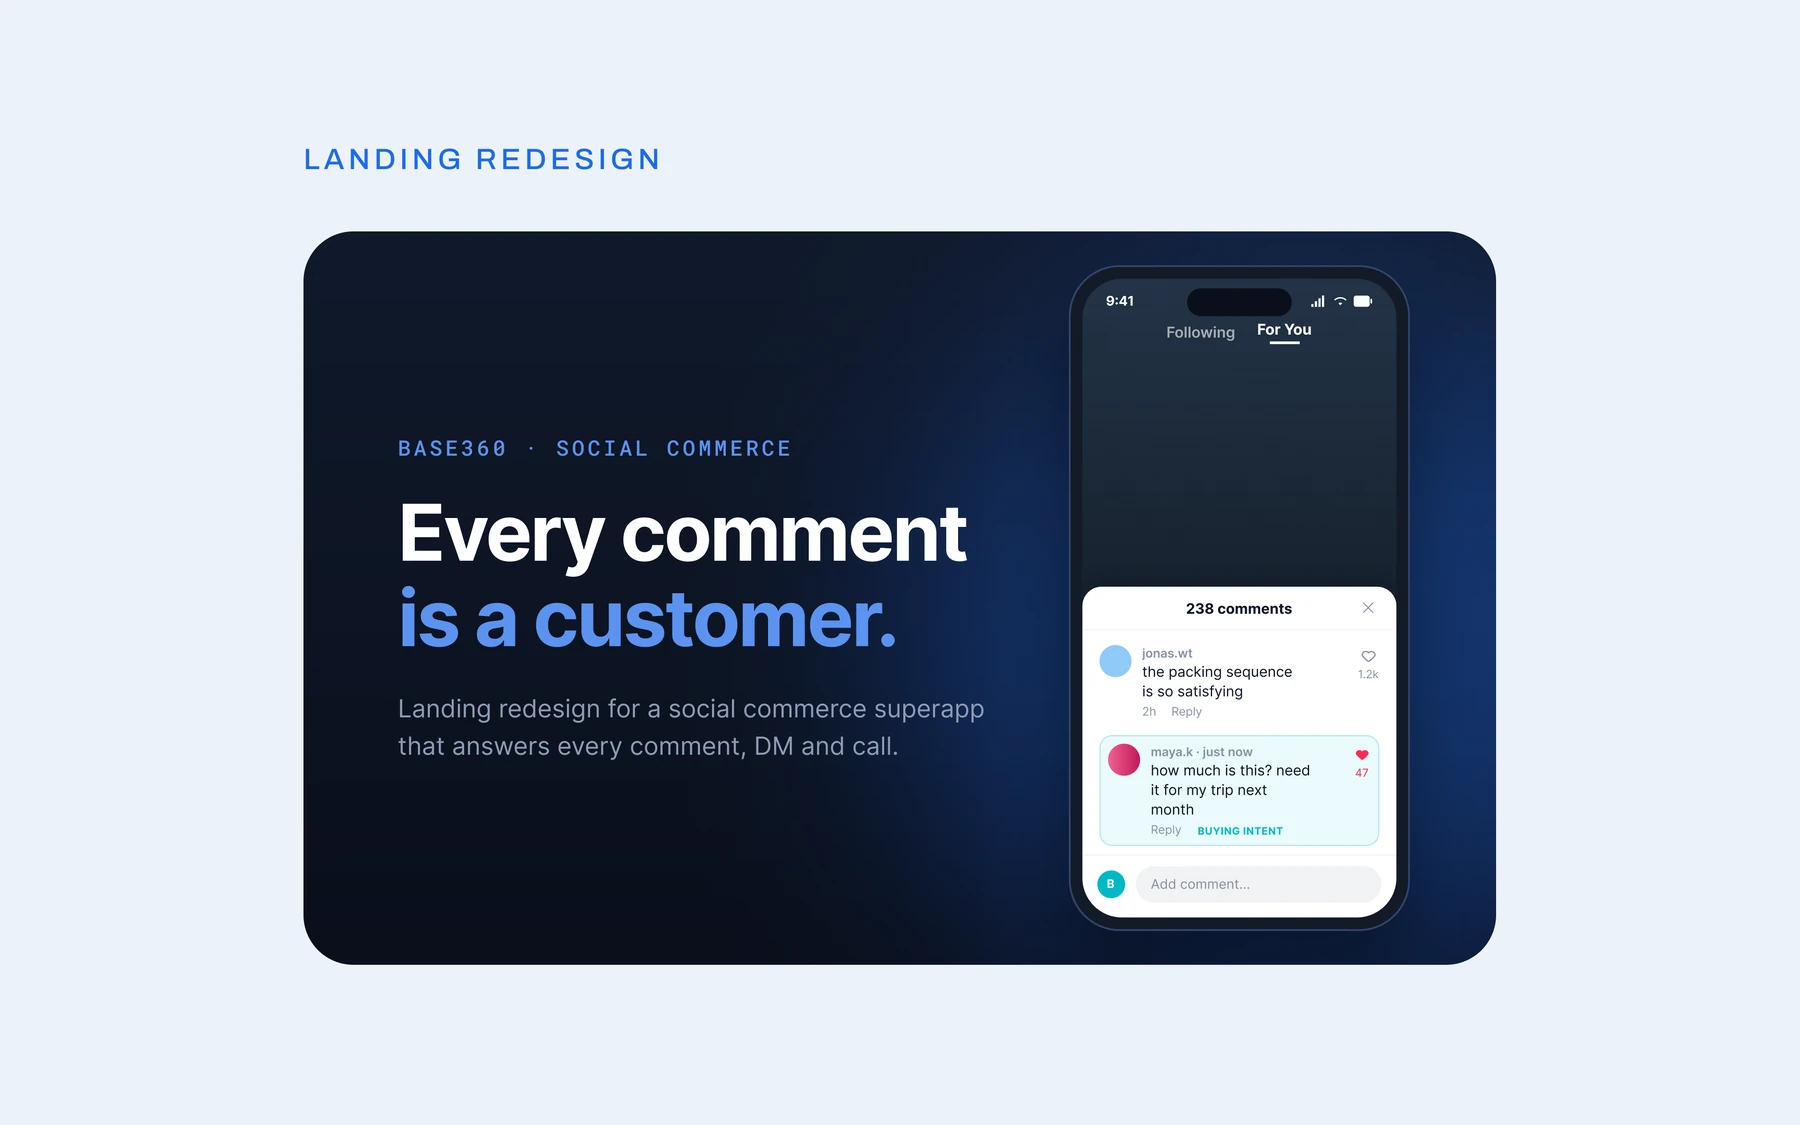
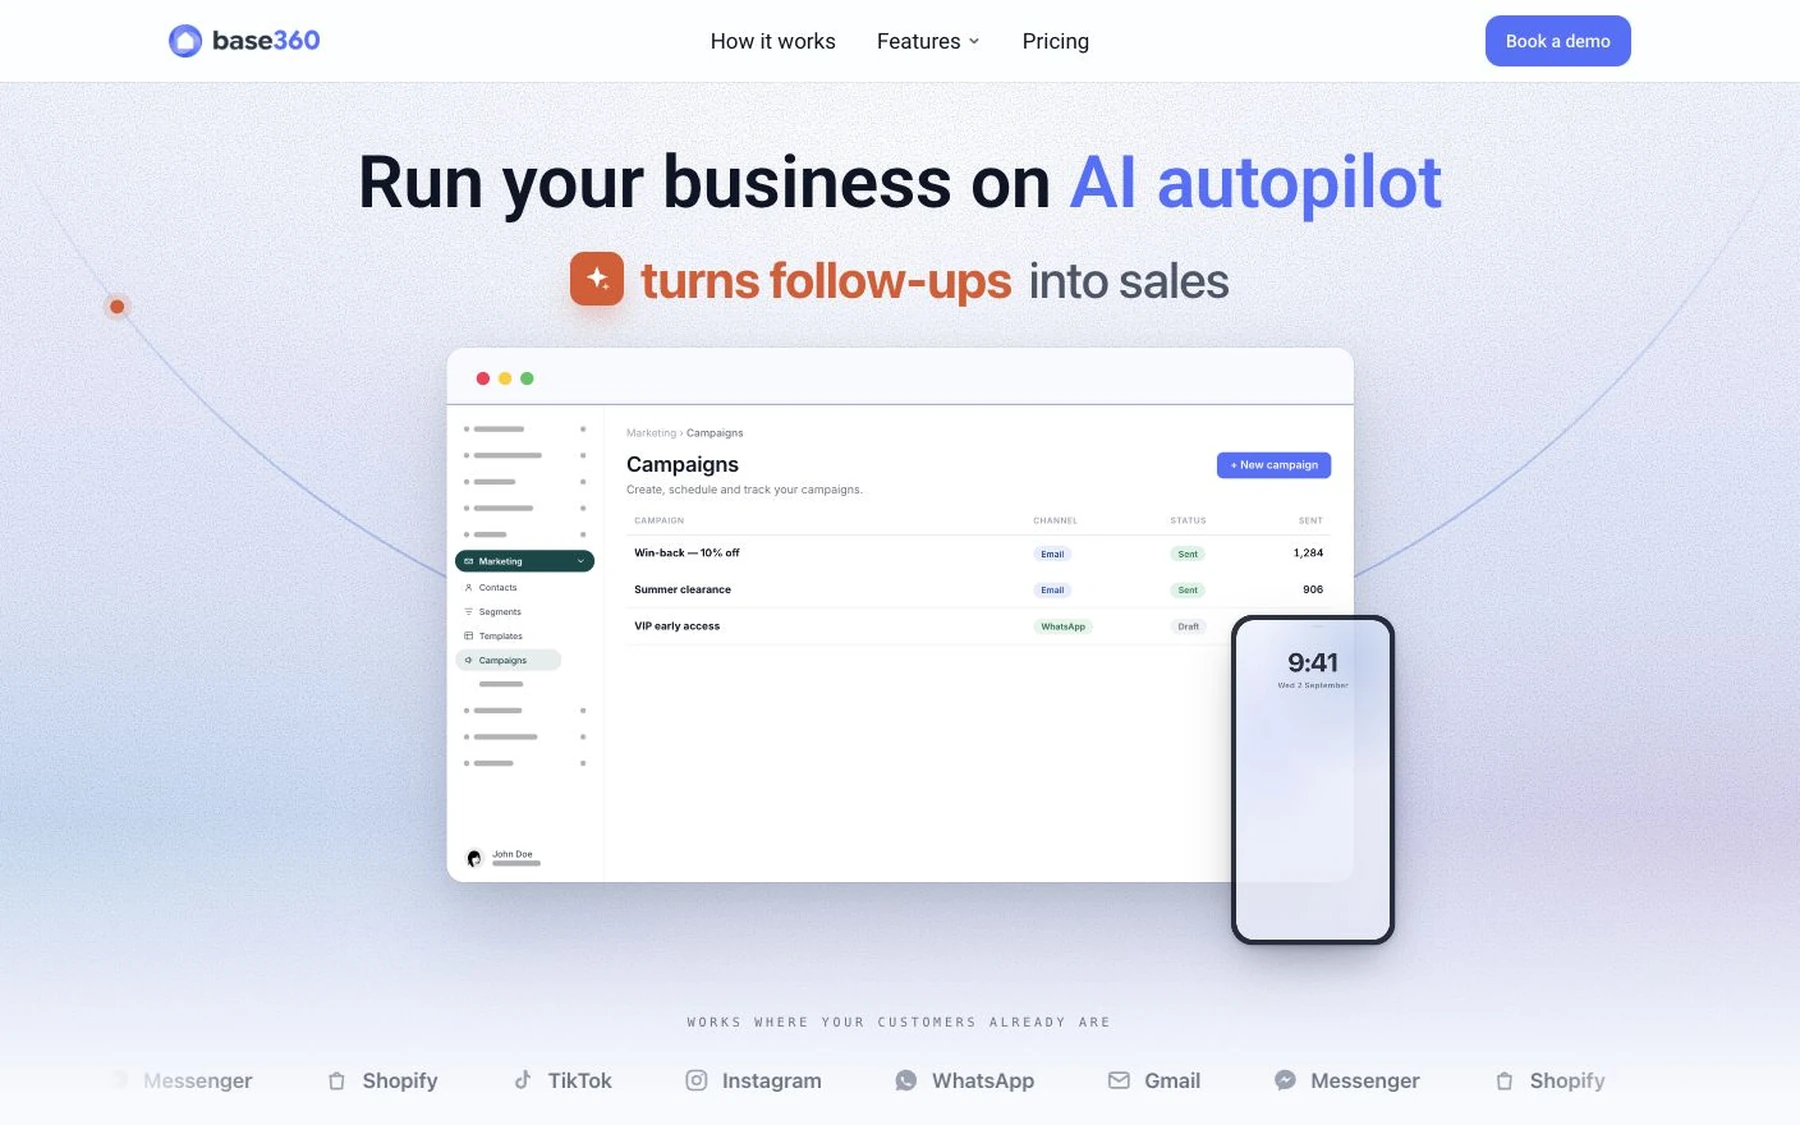
Use live Base360 hero as portfolio cover

diff --git a/src/portfolio-artifact.tmpl.html b/src/portfolio-artifact.tmpl.html
@@ -1423,8 +1423,8 @@ const PROJECTS = [
    year:'2025', disc:['web3','product','uiux']},
 
   {key:'base360', live:true, mark:'base360',           style:'font-size:23px;font-weight:400;letter-spacing:-.01em',
-   /* kapak: 262:744 frame'inin 4× export'u — src/make_cover.py kendi zeminini
-      (#ECF1F9) okuyup 16:10'a genişletiyor, görsel kırpılmıyor. */
+   /* Live hero captured from https://base360.ai/b2c/ (2026-10-20).
+      Rebuild: python3 src/make_cover.py base360 src/assets/reference/base360-hero.png --ratio native --width 1800 */
    cover:'{{ASSET:cover/base360.webp}}', coverBg:'#ECF1F9',
    logo:null,                                       client:'base360',          clientLogo:null,  /* ← Elif: base360 logosu */
    year:'2026', disc:['web','uiux']},

diff --git a/404.html b/404.html
@@ -1438,8 +1438,8 @@ const PROJECTS = [
    year:'2025', disc:['web3','product','uiux']},
 
   {key:'base360', live:true, mark:'base360',           style:'font-size:23px;font-weight:400;letter-spacing:-.01em',
-   /* kapak: 262:744 frame'inin 4× export'u — src/make_cover.py kendi zeminini
-      (#ECF1F9) okuyup 16:10'a genişletiyor, görsel kırpılmıyor. */
+   /* Live hero captured from https://base360.ai/b2c/ (2026-10-20).
+      Rebuild: python3 src/make_cover.py base360 src/assets/reference/base360-hero.png --ratio native --width 1800 */
    cover:'/assets/cover/base360.webp', coverBg:'#ECF1F9',
    logo:null,                                       client:'base360',          clientLogo:null,  /* ← Elif: base360 logosu */
    year:'2026', disc:['web','uiux']},

diff --git a/case/alti/index.html b/case/alti/index.html
@@ -1438,8 +1438,8 @@ const PROJECTS = [
    year:'2025', disc:['web3','product','uiux']},
 
   {key:'base360', live:true, mark:'base360',           style:'font-size:23px;font-weight:400;letter-spacing:-.01em',
-   /* kapak: 262:744 frame'inin 4× export'u — src/make_cover.py kendi zeminini
-      (#ECF1F9) okuyup 16:10'a genişletiyor, görsel kırpılmıyor. */
+   /* Live hero captured from https://base360.ai/b2c/ (2026-10-20).
+      Rebuild: python3 src/make_cover.py base360 src/assets/reference/base360-hero.png --ratio native --width 1800 */
    cover:'/assets/cover/base360.webp', coverBg:'#ECF1F9',
    logo:null,                                       client:'base360',          clientLogo:null,  /* ← Elif: base360 logosu */
    year:'2026', disc:['web','uiux']},

diff --git a/case/cursor/index.html b/case/cursor/index.html
@@ -1438,8 +1438,8 @@ const PROJECTS = [
    year:'2025', disc:['web3','product','uiux']},
 
   {key:'base360', live:true, mark:'base360',           style:'font-size:23px;font-weight:400;letter-spacing:-.01em',
-   /* kapak: 262:744 frame'inin 4× export'u — src/make_cover.py kendi zeminini
-      (#ECF1F9) okuyup 16:10'a genişletiyor, görsel kırpılmıyor. */
+   /* Live hero captured from https://base360.ai/b2c/ (2026-10-20).
+      Rebuild: python3 src/make_cover.py base360 src/assets/reference/base360-hero.png --ratio native --width 1800 */
    cover:'/assets/cover/base360.webp', coverBg:'#ECF1F9',
    logo:null,                                       client:'base360',          clientLogo:null,  /* ← Elif: base360 logosu */
    year:'2026', disc:['web','uiux']},

diff --git a/case/thy/index.html b/case/thy/index.html
@@ -1438,8 +1438,8 @@ const PROJECTS = [
    year:'2025', disc:['web3','product','uiux']},
 
   {key:'base360', live:true, mark:'base360',           style:'font-size:23px;font-weight:400;letter-spacing:-.01em',
-   /* kapak: 262:744 frame'inin 4× export'u — src/make_cover.py kendi zeminini
-      (#ECF1F9) okuyup 16:10'a genişletiyor, görsel kırpılmıyor. */
+   /* Live hero captured from https://base360.ai/b2c/ (2026-10-20).
+      Rebuild: python3 src/make_cover.py base360 src/assets/reference/base360-hero.png --ratio native --width 1800 */
    cover:'/assets/cover/base360.webp', coverBg:'#ECF1F9',
    logo:null,                                       client:'base360',          clientLogo:null,  /* ← Elif: base360 logosu */
    year:'2026', disc:['web','uiux']},

diff --git a/case/whallet/index.html b/case/whallet/index.html
@@ -1438,8 +1438,8 @@ const PROJECTS = [
    year:'2025', disc:['web3','product','uiux']},
 
   {key:'base360', live:true, mark:'base360',           style:'font-size:23px;font-weight:400;letter-spacing:-.01em',
-   /* kapak: 262:744 frame'inin 4× export'u — src/make_cover.py kendi zeminini
-      (#ECF1F9) okuyup 16:10'a genişletiyor, görsel kırpılmıyor. */
+   /* Live hero captured from https://base360.ai/b2c/ (2026-10-20).
+      Rebuild: python3 src/make_cover.py base360 src/assets/reference/base360-hero.png --ratio native --width 1800 */
    cover:'/assets/cover/base360.webp', coverBg:'#ECF1F9',
    logo:null,                                       client:'base360',          clientLogo:null,  /* ← Elif: base360 logosu */
    year:'2026', disc:['web','uiux']},

diff --git a/cv/index.html b/cv/index.html
@@ -1438,8 +1438,8 @@ const PROJECTS = [
    year:'2025', disc:['web3','product','uiux']},
 
   {key:'base360', live:true, mark:'base360',           style:'font-size:23px;font-weight:400;letter-spacing:-.01em',
-   /* kapak: 262:744 frame'inin 4× export'u — src/make_cover.py kendi zeminini
-      (#ECF1F9) okuyup 16:10'a genişletiyor, görsel kırpılmıyor. */
+   /* Live hero captured from https://base360.ai/b2c/ (2026-10-20).
+      Rebuild: python3 src/make_cover.py base360 src/assets/reference/base360-hero.png --ratio native --width 1800 */
    cover:'/assets/cover/base360.webp', coverBg:'#ECF1F9',
    logo:null,                                       client:'base360',          clientLogo:null,  /* ← Elif: base360 logosu */
    year:'2026', disc:['web','uiux']},

diff --git a/index.html b/index.html
@@ -1438,8 +1438,8 @@ const PROJECTS = [
    year:'2025', disc:['web3','product','uiux']},
 
   {key:'base360', live:true, mark:'base360',           style:'font-size:23px;font-weight:400;letter-spacing:-.01em',
-   /* kapak: 262:744 frame'inin 4× export'u — src/make_cover.py kendi zeminini
-      (#ECF1F9) okuyup 16:10'a genişletiyor, görsel kırpılmıyor. */
+   /* Live hero captured from https://base360.ai/b2c/ (2026-10-20).
+      Rebuild: python3 src/make_cover.py base360 src/assets/reference/base360-hero.png --ratio native --width 1800 */
    cover:'/assets/cover/base360.webp', coverBg:'#ECF1F9',
    logo:null,                                       client:'base360',          clientLogo:null,  /* ← Elif: base360 logosu */
    year:'2026', disc:['web','uiux']},
